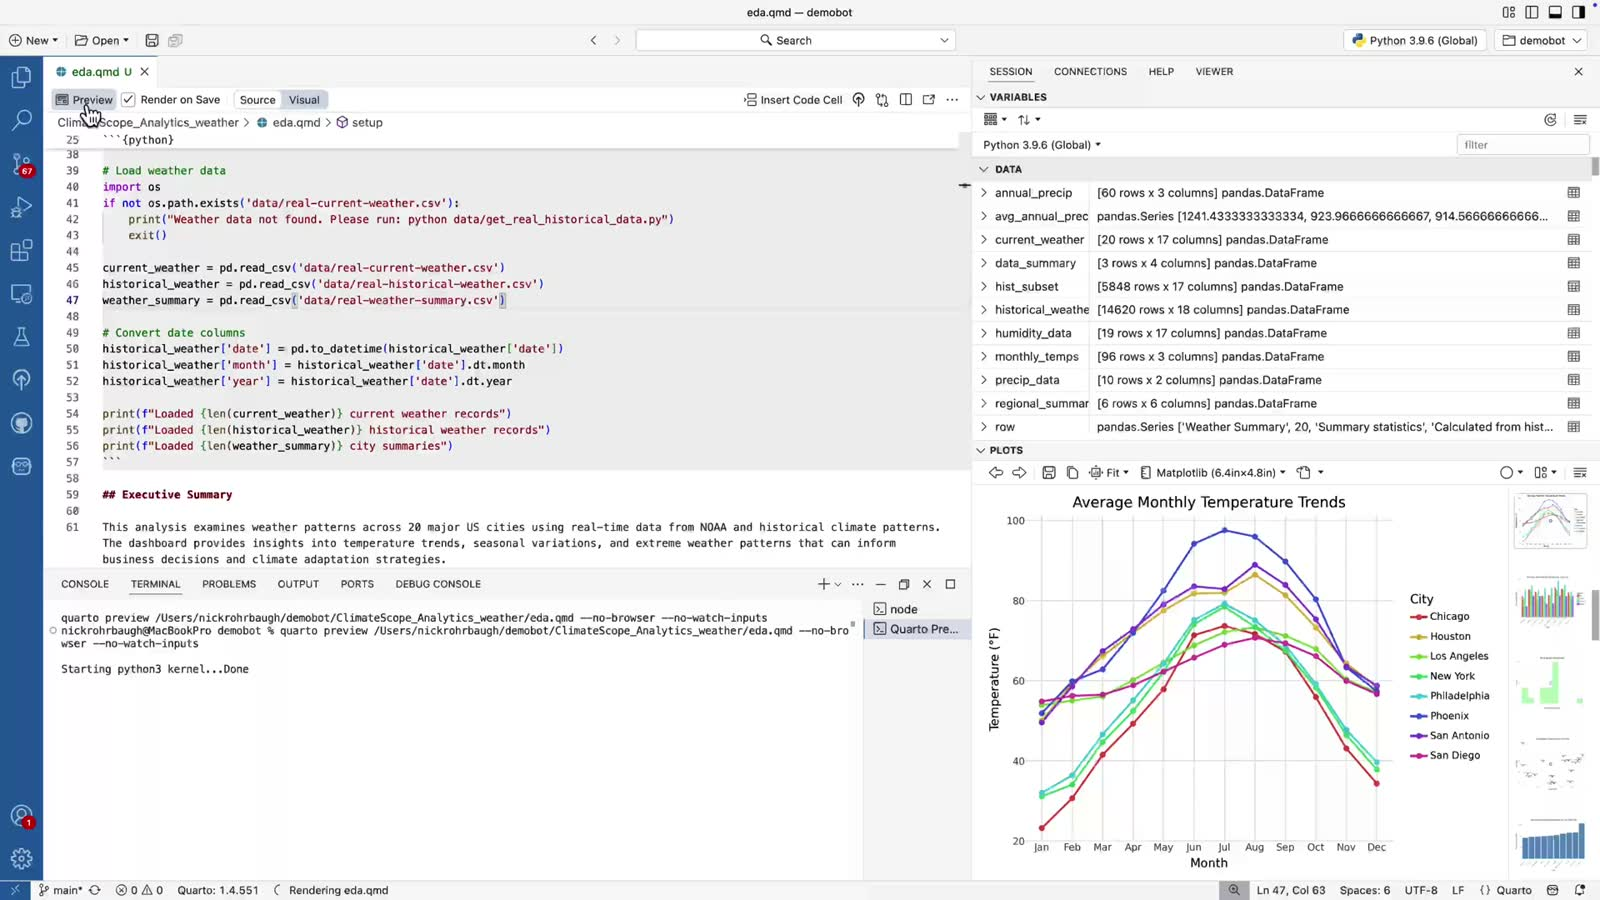
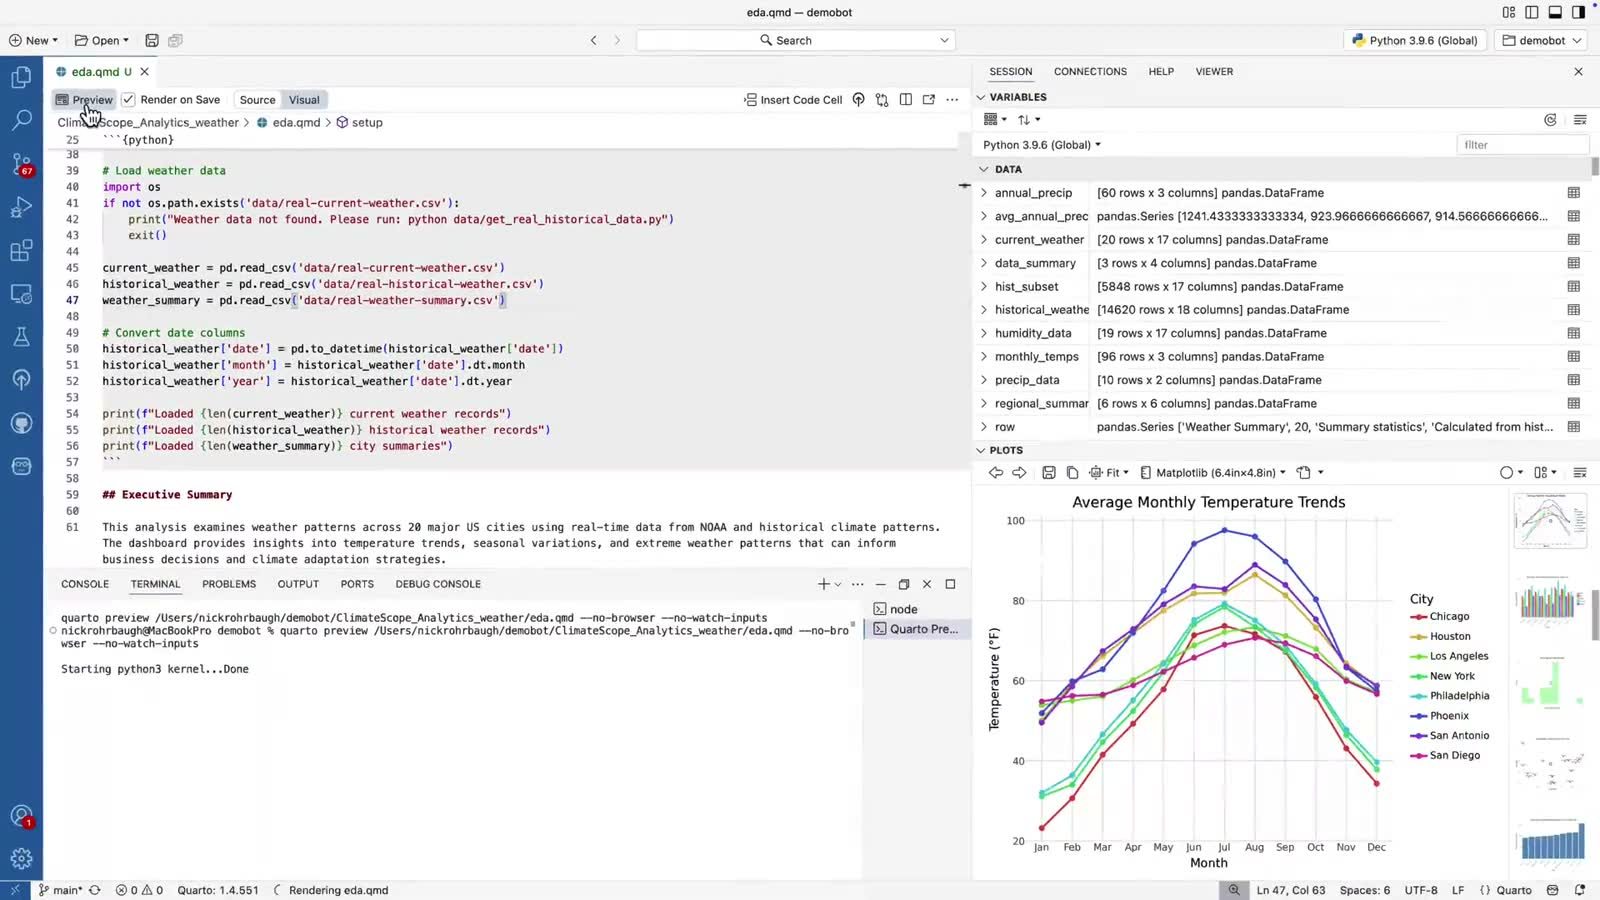
Use our new CDN hosting for the videos (#429)
* Make a new shortcode for our videos on the CDN

* No video files in *any* render now

* Use new shortcode

* Update docs on the video approach

* Don't need to checkout with LFS anymore

* Re-encode the hero video at 1600px/30fps

* Update videos/README.md

---------

diff --git a/css/theme.scss b/css/theme.scss
@@ -433,6 +433,31 @@ img.drop-shadow {
   box-shadow: $posit-box-shadow;
 }
 
+// ============= VIDEOS =============
+// Sizing for the {{< cdn-video >}} shortcode's native <video> element.
+// This has to live here: the responsive behaviour used to come from video.js's
+// `vjs-fluid` class and video-js.css, and we no longer load either. Without
+// these rules the element falls back to its intrinsic size, which for a
+// poster-bearing <video> is the poster's own width (1600px) and overflows the
+// content column.
+.quarto-video {
+  margin-block: 1.5rem;
+
+  video {
+    display: block;
+    width: 100%;
+    height: auto;
+    // Do NOT hardcode a single ratio. These range from 1.588 to 1.778: only 6
+    // of 18 are actually 16:9 and 7 are 1280x802, so a fixed ratio pillarboxes
+    // most of them. `auto` takes the real ratio from the poster (generated at
+    // the video's own aspect ratio), and the 16/10 is only a pre-load
+    // placeholder to limit layout shift.
+    aspect-ratio: auto 16 / 10;
+    background-color: #000;
+    border-radius: 4px;
+  }
+}
+
 // ============= MISC ELEMENTS =============
 // Footnotes
 a.footnote-back {

diff --git a/videos/README.md b/videos/README.md
@@ -1,0 +1,98 @@
+# Videos
+
+Videos embedded in the site live here so they are version-controlled alongside
+the pages that use them. They are stored with Git LFS (see `.gitattributes`), so
+make sure LFS is installed and initialized (`git lfs install`) before adding or
+replacing one.
+
+The site does **not** serve these files. Netlify excludes them from the build
+output (`"!videos/**"` in `_quarto.yml`),
+and pages load them from the CDN instead.
+
+## How these reach the CDN
+
+When a change under `videos/` is merged to `main`, the
+[`publish-videos.yml`](../.github/workflows/publish-videos.yml) workflow syncs
+this directory to S3 and invalidates the CloudFront cache. The sync is additive:
+it uploads new or changed files and never deletes existing ones. You can also
+run the workflow manually from the Actions tab once you have write access.
+
+Videos publish to the `releases` channel only. They are evergreen and identical
+across channels, so the dailies build references these same URLs.
+
+Because assets publish on merge, **a PR that adds a new video will show a broken
+player in its Netlify preview** until the change lands on `main`. Merge the
+video first, then write the page that uses it, the same way
+`release-notes/assets/` works.
+
+## Referencing a video
+
+Use the [`cdn-video` shortcode](../_extensions/cdn-video/), writing the video
+and poster URLs out in full:
+
+```
+{{< cdn-video https://cdn.posit.co/positron/releases/videos/example.mp4
+  poster="https://cdn.posit.co/positron/releases/videos/example-poster.jpg"
+  aria-label="Describe what the video shows" >}}
+```
+
+Both URLs are explicit on purpose. Nothing is rewritten between the source and
+the rendered page, so what you read here is exactly what the browser requests
+and both URLs are greppable. This matches how `release-notes/assets/` are
+referenced.
+
+`poster` and `aria-label` are both required. The build fails with an explanatory
+error if either is missing: without a poster the player renders a black
+rectangle, and `aria-label` is the only description a screen reader gets.
+
+`preload` is not set per-video. It is a single site-wide knob, `video-preload`
+in `_quarto-positron.yml`, currently `"none"` so that videos stay off the
+critical path and the poster is what visitors see until they click play.
+
+Do not use Quarto's built-in `{{< video >}}` shortcode. It injects video.js,
+569 KB of render-blocking JavaScript, into the page head. The `cdn-video`
+shortcode emits a native HTML5 `<video>` element instead and loads no
+JavaScript at all.
+
+## Poster frames
+
+Every video needs a matching `<name>-poster.jpg`, which is what the player shows
+before playback starts. Without one the player renders a black rectangle.
+Regenerate them with:
+
+```bash
+bash videos/generate-posters.sh
+```
+
+The script grabs a frame 3 seconds in. Check the result: if that frame lands on a
+splash screen, a transition, or an empty editor, pick a better timestamp for that
+file by hand and commit the replacement.
+
+## Replacing an existing video
+
+Keep the filename stable so no page references need updating. Note that objects
+are published with a one week `max-age`. The workflow invalidates CloudFront, so
+edge caches update immediately, but a browser that already downloaded the old
+file may keep serving it for up to a week.
+
+## Encoding guidance
+
+These are delivered over a CDN and played in a player roughly 1000px wide, so
+source-quality screen recordings are heavily oversized. Before adding a video:
+
+- Cap the width at 1600px and the frame rate at 30fps
+- Drop the audio track (`-an`) unless the video actually has narration; several
+  of these carried silent audio tracks costing close to a megabyte each
+- Use `-movflags +faststart` so playback can begin before the full file arrives
+
+```bash
+ffmpeg -i input.mp4 -vf "scale=1600:-2,fps=30" \
+  -c:v libx264 -crf 28 -preset slow -profile:v high -pix_fmt yuv420p \
+  -an -movflags +faststart videos/output.mp4
+```
+
+Do not tune by file size alone. Extract a frame from a text-heavy region and
+look at it. These videos exist to show how Positron renders text, and
+compression artifacts on UI text are exactly what makes them look bad.
+
+This file and `generate-posters.sh` are excluded from the S3 sync.

diff --git a/CLAUDE.md b/CLAUDE.md
@@ -24,7 +24,7 @@ There is also a **dailies** overlay (`_quarto-dailies.yml`) for the dev docs ser
 
 New pages will likely need to be added to both the positron and workbench profile config files (not the dailies overlay).
 
-**Videos are excluded from the workbench profile.** A Lua filter (`_extensions/video-filter/`) automatically removes video elements when building for workbench. Use the standard `{{< video >}}` shortcode; videos will appear in the public site but not in the workbench bundle.
+**Videos are excluded from the workbench profile.** The `cdn-video` shortcode drops video elements when `show-videos: false`, so videos appear in the public site but not in the workbench bundle. See "Videos" below.
 
 ## Code Execution and Freeze
 
@@ -70,9 +70,29 @@ Key formatting rules:
   - `publish-release-notes.yml`: Manual workflow for S3/CloudFront deployment of the release notes markdown
   - `publish-release-notes-assets.yml`: Syncs `release-notes/assets/` (images, GIFs) to S3/CloudFront. Runs automatically when assets change on `main`, plus manual dispatch. See `release-notes/assets/README.md`.
 
-## Videos and Git LFS
+## Videos
 
-Video files (`.mp4`, `.mov`) are stored with Git LFS (see `.gitattributes`). When adding or replacing a video, make sure Git LFS is installed and initialized (`git lfs install`) so the file goes through the LFS filter.
+**Read `videos/README.md` before adding, replacing, or referencing a video.** It is the authoritative reference; the summary here is only so you know the shape of the workflow.
+
+Videos are **not served by Netlify**. They are published to `cdn.posit.co` by `.github/workflows/publish-videos.yml` and referenced from pages by absolute CDN URL. Adding one is a three-step sequence, and the order matters:
+
+1. **Encode and add the file** to `videos/` (cap at 1600px/30fps, drop silent audio tracks, use `-movflags +faststart`), then run `bash videos/generate-posters.sh` to make its poster frame. Check the poster is a sensible thumbnail rather than a splash screen or empty editor; add a per-file offset in the script if not.
+2. **Merge that change to `main` first.** Publishing happens on merge, so a PR that adds a video and the page using it in one go will show a broken player in its Netlify preview.
+3. **Then reference it** with the `cdn-video` shortcode, writing both the video and poster URLs out in full:
+
+```
+{{< cdn-video https://cdn.posit.co/positron/releases/videos/example.mp4
+  poster="https://cdn.posit.co/positron/releases/videos/example-poster.jpg"
+  aria-label="Describe what the video shows" >}}
+```
+
+Both URLs are explicit on purpose, so what you read in the source is exactly what the browser requests. `poster` and `aria-label` are both required and the build fails without them.
+
+**Do not use Quarto's built-in `{{< video >}}` shortcode.** It injects video.js, 569 KB of render-blocking JavaScript, into the page head.
+
+### Git LFS
+
+Video files (`.mp4`, `.mov`) are stored with Git LFS (see `.gitattributes`). Poster frames (`.jpg`) are not; they are plain git objects, matching `images/`. When adding or replacing a video, make sure Git LFS is installed and initialized (`git lfs install`) so the file goes through the LFS filter.
 
 If a video shows up as changed in `git diff` or `git status` but you didn't touch it, that's a phantom diff: the file was committed as raw binary instead of an LFS pointer, so the clean filter now produces a pointer that differs from the stored blob. Do not stage or commit this as part of unrelated work. Running `git add` would rewrite the stored blob into a pointer, which is a real change to history. Instead, discard it with `git restore <file>`, and open a separate PR to re-add the file through LFS:
 
